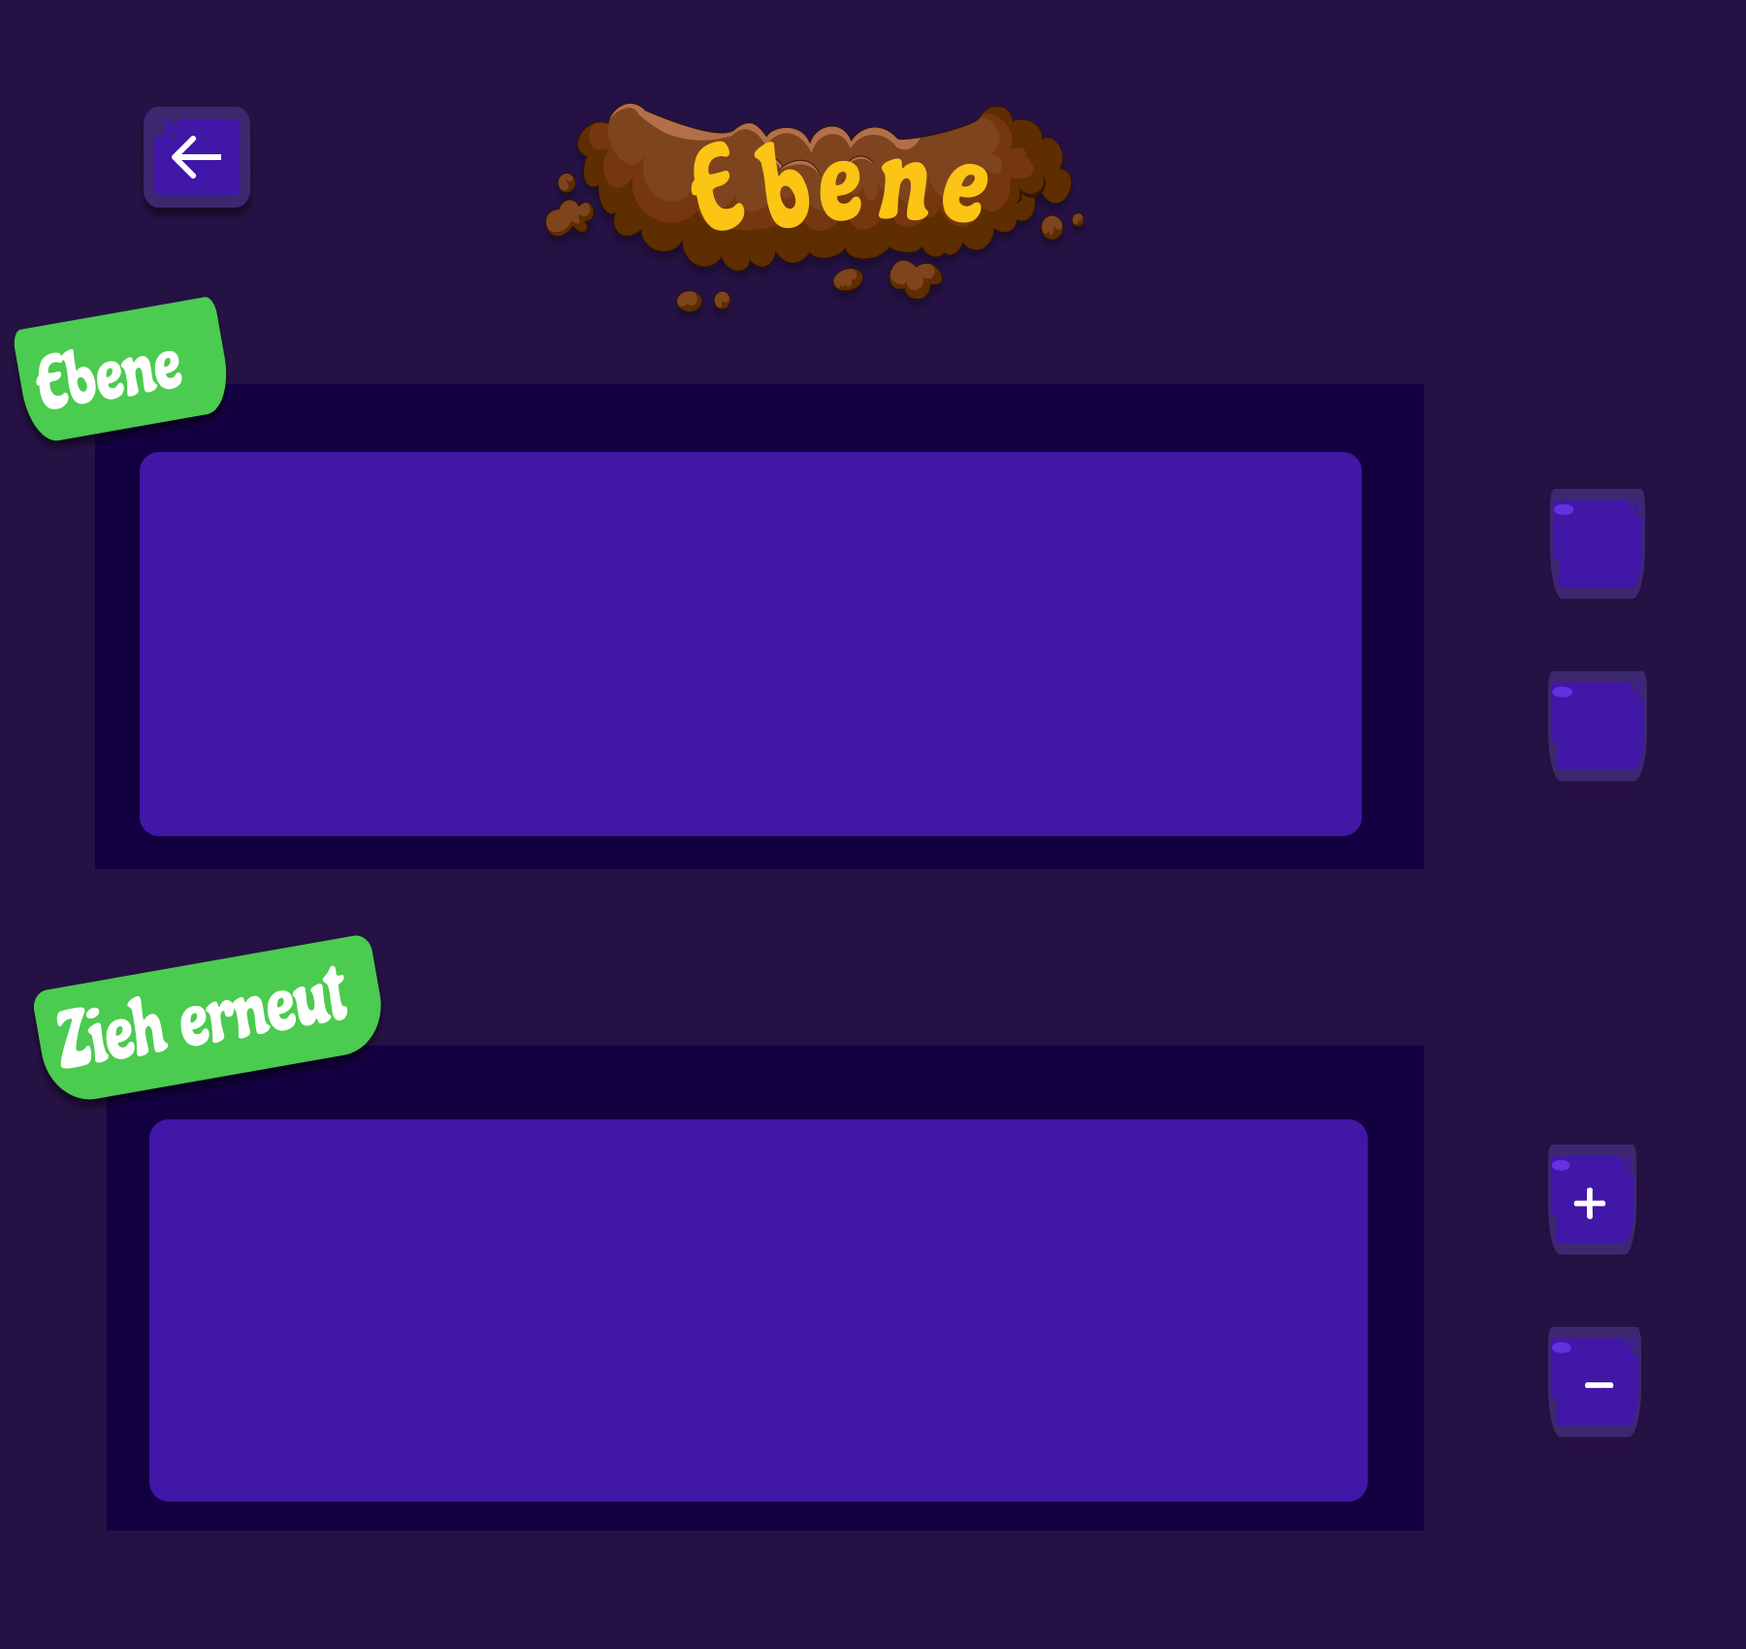
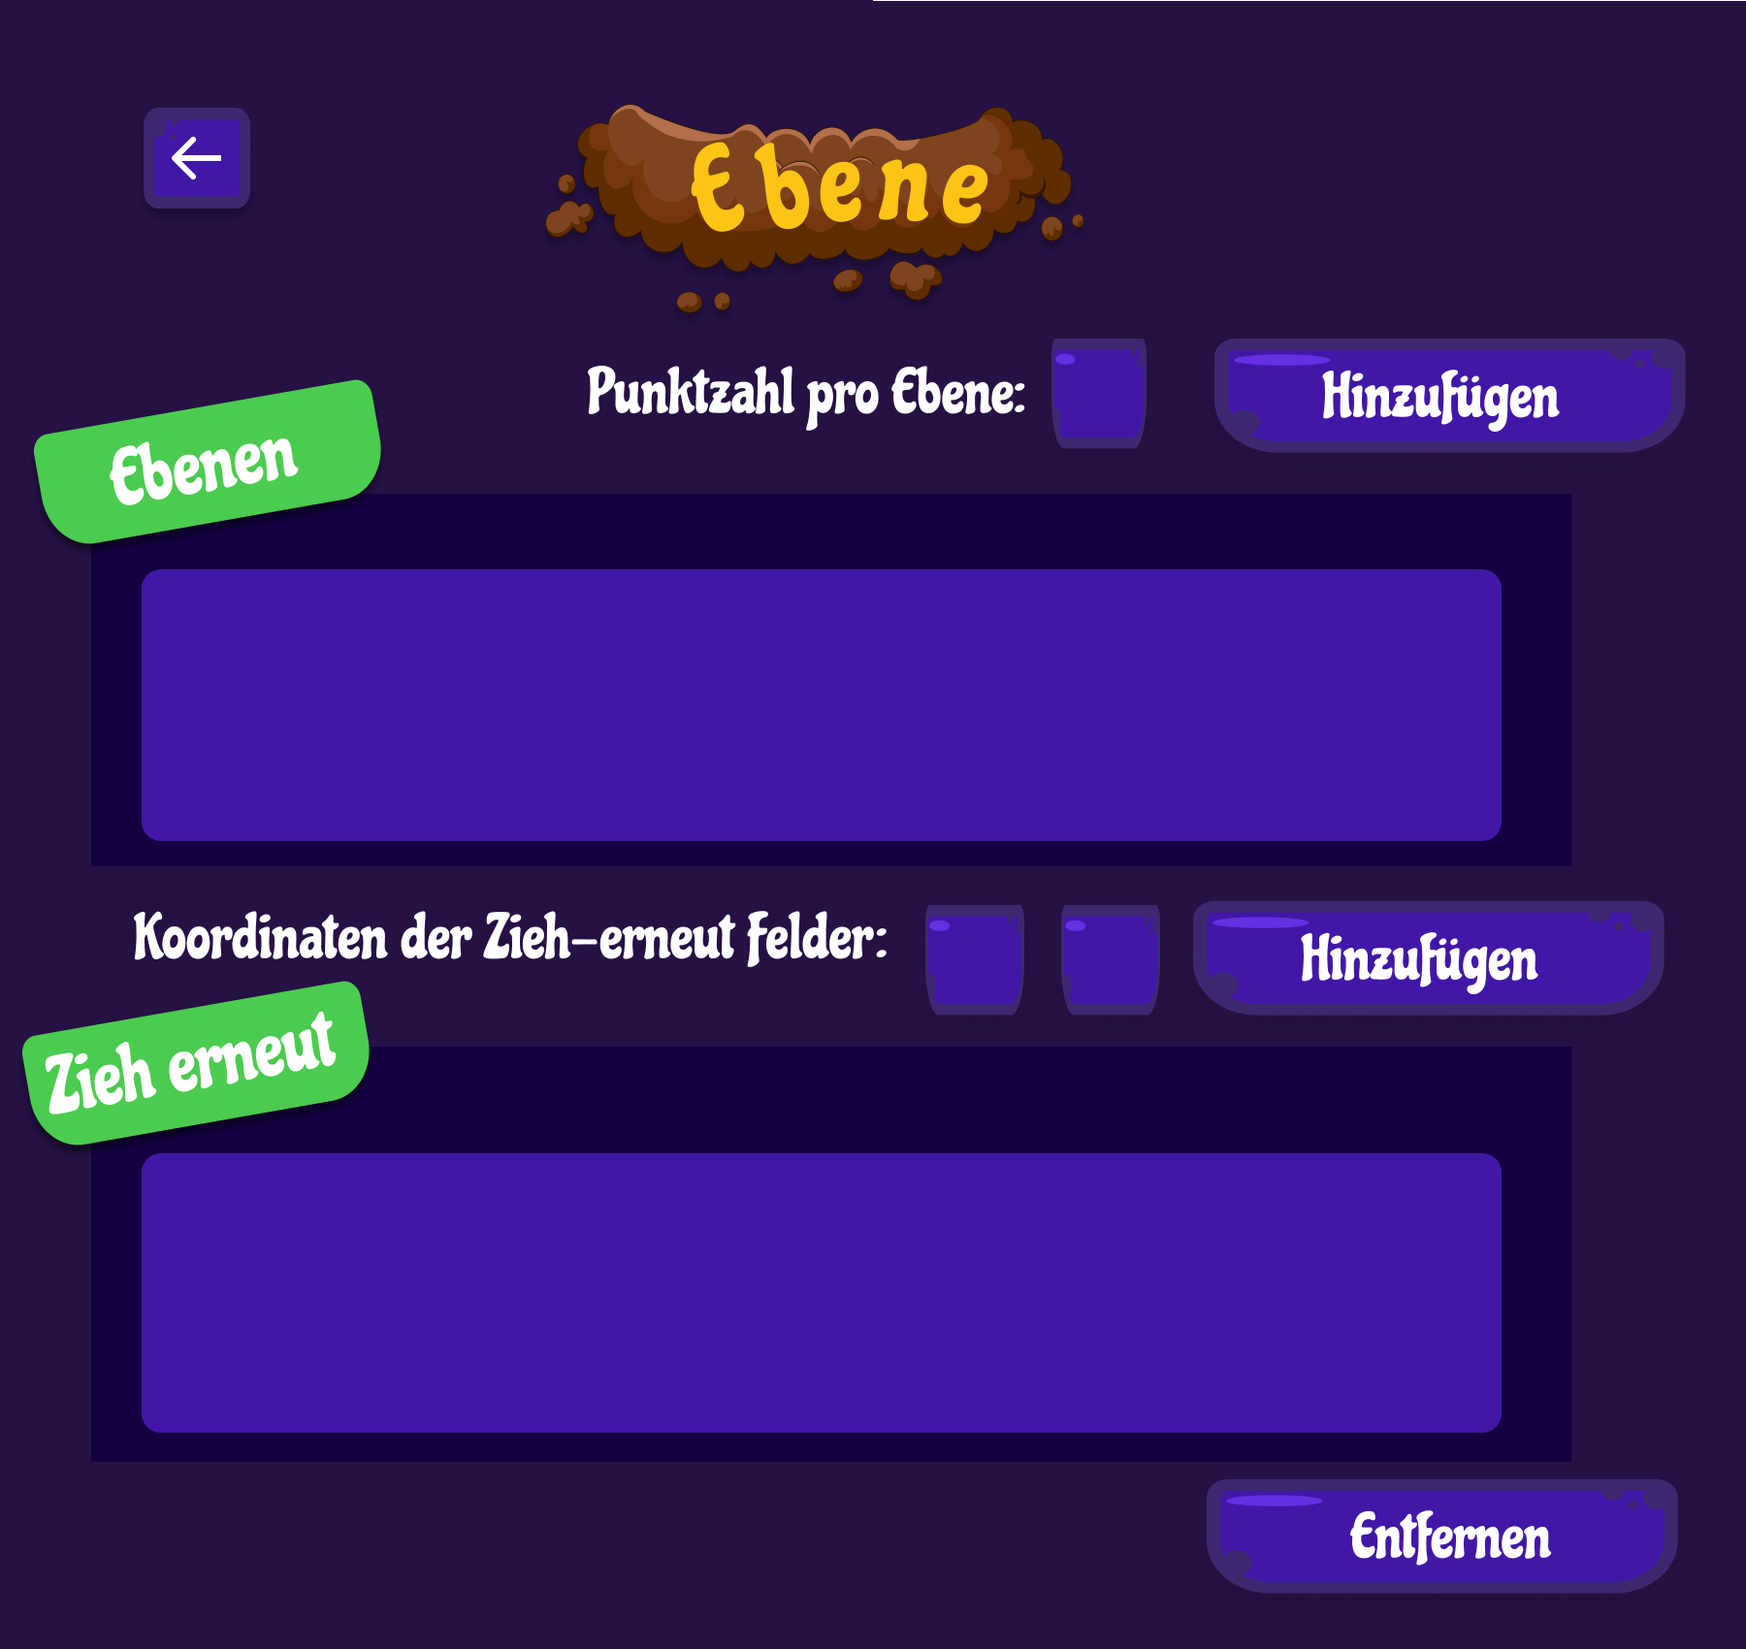
Letzte Bearbeitungen Ausrichter

Changed region(s): [[0.0, 0.53, 0.9644, 0.9665], [0.0, 0.1559, 0.9644, 0.6235]]

diff --git a/pc/src/main/java/de/thundergames/gameplay/ausrichter/ui/TournamentEditor.java b/pc/src/main/java/de/thundergames/gameplay/ausrichter/ui/TournamentEditor.java
@@ -112,6 +112,8 @@ public class TournamentEditor implements Initializable {
       var selectedItem = gameTable.getSelectionModel().getSelectedItem();
       tournament.getGames().remove(selectedItem);
       updateTable();
+    } else {
+      Dialog.show("Du musst ein Spiel auswählen!", "Achtung!", Dialog.DialogType.WARNING);
     }
   }
 
@@ -125,7 +127,7 @@ public class TournamentEditor implements Initializable {
       //new AddPlayer(selectedItem).start(primaryStage, "TurnierModus");
       new PlayerManagement(selectedItem).start(primaryStage, "Turniermodus");
     } else {
-      Dialog.show("Du musst ein Spiel auswählen!", "Achtung!", Dialog.DialogType.ERROR);
+      Dialog.show("Du musst ein Spiel auswählen!", "Achtung!", Dialog.DialogType.WARNING);
     }
   }
 
@@ -133,7 +135,7 @@ public class TournamentEditor implements Initializable {
   void onBreakGame(ActionEvent event) {
     var selectedItem = gameTable.getSelectionModel().getSelectedItem();
     if (selectedItem == null) {
-      Dialog.show("Du musst ein Spiel auswählen!", "Achtung!", Dialog.DialogType.ERROR);
+      Dialog.show("Du musst ein Spiel auswählen!", "Achtung!", Dialog.DialogType.WARNING);
     } else {
       if (MoleGames.getMoleGames()
               .getGameHandler()
@@ -147,10 +149,10 @@ public class TournamentEditor implements Initializable {
                 .get(selectedItem.getGameID())
                 .pauseGame();
         updateTable();
-        Dialog.show("Spiel wurde erfolgreich pausiert!", "Erfolg!", Dialog.DialogType.INFO);
+        Dialog.show("Das gewählte Spiel wurde erfolgreich pausiert!", "Erfolg!", Dialog.DialogType.INFO);
         gameTable.getSelectionModel().clearSelection();
       } else {
-        Dialog.show("Das Spiel ist nicht im Started GameState!", "Spiel Gamestate!", Dialog.DialogType.ERROR);
+        Dialog.show("Das gewählte Spiel ist vorbei oder wurde noch nicht gestartet!", "Achtung!", Dialog.DialogType.WARNING);
       }
     }
   }
@@ -159,7 +161,7 @@ public class TournamentEditor implements Initializable {
   void onContinueGame(ActionEvent event) {
     var selectedItem = gameTable.getSelectionModel().getSelectedItem();
     if (selectedItem == null) {
-      Dialog.show("Du musst ein Spiel auswählen!", "Achtung!", Dialog.DialogType.ERROR);
+      Dialog.show("Du musst ein Spiel auswählen!", "Achtung!", Dialog.DialogType.WARNING);
     } else {
       if (MoleGames.getMoleGames()
               .getGameHandler()
@@ -176,7 +178,7 @@ public class TournamentEditor implements Initializable {
         updateTable();
         Dialog.show("Das gewählte Spiel geht weiter!", "Erfolg!", Dialog.DialogType.INFO);
       } else {
-        Dialog.show("Das gewählte Spiel ist nicht pausiert!", "Achtung!", Dialog.DialogType.ERROR);
+        Dialog.show("Das gewählte Spiel ist nicht pausiert!", "Achtung!", Dialog.DialogType.WARNING);
       }
     }
   }
@@ -185,7 +187,7 @@ public class TournamentEditor implements Initializable {
   void onEndGame(ActionEvent event) {
     var selectedItem = gameTable.getSelectionModel().getSelectedItem();
     if (selectedItem == null) {
-      Dialog.show("Du musst ein Spiel auswählen!", "Achtung!", Dialog.DialogType.ERROR);
+      Dialog.show("Du musst ein Spiel auswählen!", "Achtung!", Dialog.DialogType.WARNING);
     } else {
       if (MoleGames.getMoleGames()
               .getGameHandler()
@@ -208,7 +210,7 @@ public class TournamentEditor implements Initializable {
         updateTable();
         Dialog.show("Das gewählte Spiel wurde erfolgreich beendet!", "Erfolg!", Dialog.DialogType.INFO);
       } else {
-        Dialog.show("Das gewählte Spiel vvvv?????????!", "Achtung!", Dialog.DialogType.ERROR);
+        Dialog.show("Das gewählte Spiel ist vorbei!", "Achtung!", Dialog.DialogType.WARNING);
       }
     }
   }
@@ -224,7 +226,7 @@ public class TournamentEditor implements Initializable {
       }
     }
     if (selectedItem == null) {
-      Dialog.show("Du musst ein Spiel auswählen!", "Achtung!", Dialog.DialogType.ERROR);
+      Dialog.show("Du musst ein Spiel auswählen!", "Achtung!", Dialog.DialogType.WARNING);
     } else {
       if (MoleGames.getMoleGames()
               .getGameHandler()
@@ -242,7 +244,7 @@ public class TournamentEditor implements Initializable {
         updateTable();
         Dialog.show("Das gewählte Spiel wurde erfolgreich gestartet!", "Erfolg!", Dialog.DialogType.INFO);
       } else {
-        Dialog.show("Das nccdneo!", "Achtung", Dialog.DialogType.ERROR);
+        Dialog.show("Status 'Open', dann musst du mindestens 2 Spieler hinzufügen!", "Achtung", Dialog.DialogType.WARNING);
       }
     }
   }

diff --git a/pc/src/main/java/de/thundergames/gameplay/ausrichter/ui/floor/HolesConfiguration.java b/pc/src/main/java/de/thundergames/gameplay/ausrichter/ui/floor/HolesConfiguration.java
@@ -50,6 +50,8 @@ public class HolesConfiguration implements Initializable {
   @FXML
   private Button add;
   @FXML
+  private Button addPoints;
+  @FXML
   private TableColumn<Floor, String> amountDrawAgain;
   @FXML
   private TableColumn<Floor, String> amountHoles;
@@ -67,6 +69,8 @@ public class HolesConfiguration implements Initializable {
   private TableColumn<Hole, String> xPosition;
   @FXML
   private TextField y;
+  @FXML
+  private TextField z;
   @FXML
   private TableColumn<Hole, String> yPosition;
   @FXML
@@ -92,18 +96,11 @@ public class HolesConfiguration implements Initializable {
   /**
    * @param event
    * @author Carina, Jana, Eva
-   * @use removes a new floor or field
    */
   @FXML
   void onAdd(@NotNull final ActionEvent event) {
     try {
       if (!"".equalsIgnoreCase(x.getText())
-        && x.getText() != null
-        && ("".equalsIgnoreCase(y.getText()) || y.getText() == null)) {
-        var floor = new Floor(Integer.parseInt(x.getText()));
-        CreateGame.getFloors().add(floor);
-        updateTable();
-      } else if (!"".equalsIgnoreCase(x.getText())
         && x.getText() != null
         && !"".equalsIgnoreCase(y.getText())
         && y.getText() != null
@@ -114,15 +111,32 @@ public class HolesConfiguration implements Initializable {
         updateHolesTable();
         updateTable();
       } else {
-        Dialog.show("Wähle eine Ebene aus!", "Ebeneauswahl!", Dialog.DialogType.WARNING);
+        Dialog.show("Wähle eine Ebene aus!", "Achtung!", Dialog.DialogType.WARNING);
       }
       x.setText(null);
       y.setText(null);
     } catch (NumberFormatException exe) {
-      Dialog.show("Du musst eine Zahl eingeben!", "Eingabe!", Dialog.DialogType.ERROR);
+      Dialog.show("Du musst die X und Y Koordinaten eingeben!", "Achtung!", Dialog.DialogType.WARNING);
     }
   }
-
+  /**
+   * @param event
+   * @author Eva, Jana
+   */
+  @FXML
+  void onAddPoints(@NotNull final ActionEvent event) {
+    try {
+      if (!"".equalsIgnoreCase(z.getText())
+        && z.getText() != null) {
+        var floor = new Floor(Integer.parseInt(z.getText()));
+        CreateGame.getFloors().add(floor);
+        updateTable();
+      }
+      z.setText(null);
+    } catch (NumberFormatException exe) {
+      Dialog.show("Du musst eine Zahl eingeben!", "Achtung!", Dialog.DialogType.WARNING);
+    }
+  }
   @FXML
   void onBack(@NotNull final ActionEvent event) throws Exception {
     var primaryStage = (Stage) ((Node) event.getSource()).getScene().getWindow();
@@ -146,7 +160,7 @@ public class HolesConfiguration implements Initializable {
       updateTable();
       floorTable.getSelectionModel().select(null);
     } else {
-      Dialog.show("Du musst eine Spalte auswaehlen!", "Auswählen!", Dialog.DialogType.ERROR);
+      Dialog.show("Du musst eine Zeile auswählen!", "Achtung!", Dialog.DialogType.WARNING);
     }
   }
 
@@ -185,6 +199,8 @@ public class HolesConfiguration implements Initializable {
   void initialize() {
     assert add != null
       : "fx:id=\"add\" was not injected: check your FXML file 'HolesConfiguration.fxml'.";
+    assert addPoints != null
+      : "fx:id=\"addPoints\" was not injected: check your FXML file 'HolesConfiguration.fxml'.";
     assert amountDrawAgain != null
       : "fx:id=\"amountDrawAgain\" was not injected: check your FXML file 'HolesConfiguration.fxml'.";
     assert amountHoles != null
@@ -207,6 +223,8 @@ public class HolesConfiguration implements Initializable {
       : "fx:id=\"xPosition\" was not injected: check your FXML file 'HolesConfiguration.fxml'.";
     assert y != null
       : "fx:id=\"y\" was not injected: check your FXML file 'HolesConfiguration.fxml'.";
+    assert z != null
+      : "fx:id=\"z\" was not injected: check your FXML file 'HolesConfiguration.fxml'.";
     assert points != null
       : "fx:id=\"points\" was not injected: check your FXML file 'HolesConfiguration.fxml'.";
     assert yPosition != null

diff --git a/pc/src/main/java/de/thundergames/gameplay/ausrichter/ui/floor/DrawAgainConfiguration.java b/pc/src/main/java/de/thundergames/gameplay/ausrichter/ui/floor/DrawAgainConfiguration.java
@@ -44,6 +44,8 @@ public class DrawAgainConfiguration implements Initializable {
   @FXML
   private Button add;
   @FXML
+  private Button addPoints;
+  @FXML
   private TableColumn<Floor, String> amountDrawAgain;
   @FXML
   private TableColumn<Floor, String> amountHoles;
@@ -65,6 +67,8 @@ public class DrawAgainConfiguration implements Initializable {
   private TableColumn<DrawAgain, String> xPosition;
   @FXML
   private TextField y;
+  @FXML
+  private TextField z;
   @FXML
   private TableColumn<DrawAgain, String> yPosition;
   @FXML
@@ -90,12 +94,6 @@ public class DrawAgainConfiguration implements Initializable {
     try {
       if (!"".equalsIgnoreCase(x.getText())
         && x.getText() != null
-        && ("".equalsIgnoreCase(y.getText()) || y.getText() == null)) {
-        var floor = new Floor(Integer.parseInt(x.getText()));
-        CreateGame.getFloors().add(floor);
-        updateTable();
-      } else if (!"".equalsIgnoreCase(x.getText())
-        && x.getText() != null
         && !"".equalsIgnoreCase(y.getText())
         && y.getText() != null
         && floorTable.getSelectionModel().getSelectedItem() != null) {
@@ -106,12 +104,31 @@ public class DrawAgainConfiguration implements Initializable {
         updateDragAgainTable();
         updateTable();
       } else {
-        Dialog.show("Waehle eine Ebene aus!", "Settings", Dialog.DialogType.ERROR);
+        Dialog.show("Du musst eine Ebene auswählen!", "Achtung!", Dialog.DialogType.WARNING);
       }
       x.setText(null);
       y.setText(null);
     } catch (NumberFormatException exe) {
-      Dialog.show("Du musst eine Zahl eingeben!", "Settings", Dialog.DialogType.ERROR);
+      Dialog.show("Du musst die X und Y Koordinaten eingeben!", "Achtung!", Dialog.DialogType.WARNING);
+    }
+  }
+
+  /**
+   * @author Eva,Jana
+   */
+  @FXML
+  void onAddPoints(@NotNull final ActionEvent event) {
+    try {
+      if (
+        !"".equalsIgnoreCase(z.getText())
+          && z.getText() != null) {
+        var floor = new Floor(Integer.parseInt(z.getText()));
+        CreateGame.getFloors().add(floor);
+        updateTable();
+      }
+      z.setText(null);
+    } catch (NumberFormatException exe) {
+      Dialog.show("Du musst eine Zahl eingeben!", "Achtung!", Dialog.DialogType.WARNING);
     }
   }
 
@@ -133,9 +150,10 @@ public class DrawAgainConfiguration implements Initializable {
       updateTable();
       floorTable.getSelectionModel().select(null);
     } else {
-      Dialog.show("Du musst eine Spalte auswaehlen!", "Settings", Dialog.DialogType.ERROR);
+      Dialog.show("Du musst eine Zeile auswählen!", "Achtung!", Dialog.DialogType.WARNING);
     }
   }
+
 
   public void updateTable() {
     floorTable.getItems().clear();
@@ -153,6 +171,8 @@ public class DrawAgainConfiguration implements Initializable {
   void initialize() {
     assert add != null
       : "fx:id=\"add\" was not injected: check your FXML file 'DrawAgainConfiguration.fxml'.";
+    assert addPoints != null
+      : "fx:id=\"addPoints\" was not injected: check your FXML file 'DrawAgainConfiguration.fxml'.";
     assert amountDrawAgain != null
       : "fx:id=\"amountDrawAgain\" was not injected: check your FXML file 'DrawAgainConfiguration.fxml'.";
     assert amountHoles != null
@@ -177,6 +197,8 @@ public class DrawAgainConfiguration implements Initializable {
       : "fx:id=\"xPosition\" was not injected: check your FXML file 'DrawAgainConfiguration.fxml'.";
     assert y != null
       : "fx:id=\"y\" was not injected: check your FXML file 'DrawAgainConfiguration.fxml'.";
+    assert z != null
+      : "fx:id=\"z\" was not injected: check your FXML file 'DrawAgainConfiguration.fxml'.";
     assert yPosition != null
       : "fx:id=\"yPosition\" was not injected: check your FXML file 'DrawAgainConfiguration.fxml'.";
     // create a listener on selecting a property for the floorTable

diff --git a/pc/src/main/java/de/thundergames/gameplay/ausrichter/ui/AddGames.java b/pc/src/main/java/de/thundergames/gameplay/ausrichter/ui/AddGames.java
@@ -110,17 +110,27 @@ public class AddGames implements Initializable{
   void onAddGame(ActionEvent event) {
     var selectedItem = gameTable.getSelectionModel().getSelectedItem();
     if (selectedItem == null) {
-      Dialog.show("Du musst ein Spiel auswählen!", "Achtung!",  Dialog.DialogType.INFO);
+      Dialog.show("Du musst ein Spiel auswählen!", "Achtung!",  Dialog.DialogType.WARNING);
     } else {
       if (MoleGames.getMoleGames()
-              .getGameHandler()
-              .getIDGames()
-              .get(selectedItem.getGameID())
-              .getCurrentGameState()
-              == GameStates.NOT_STARTED) {
+        .getGameHandler()
+        .getIDGames()
+        .get(selectedItem.getGameID())
+        .getCurrentGameState()
+        == GameStates.NOT_STARTED) {
         tournament.addGame(selectedItem);
-        //MoleGames.getMoleGames().getGameHandler().getGames().add(selectedItem);
+        Dialog.show("Das Spiel wurde hinzugefügt!", "Erfolg!",  Dialog.DialogType.WARNING);
         updateTable();
+      } else {
+        if (MoleGames.getMoleGames()
+          .getGameHandler()
+          .getIDGames()
+          .get(selectedItem.getGameID())
+          .getCurrentGameState()
+          == GameStates.OVER) {
+          Dialog.show("Das Spiel ist bereits vorbei", "Achtung!",  Dialog.DialogType.WARNING);
+          updateTable();
+        }
       }
     }
   }

diff --git a/pc/src/main/java/de/thundergames/gameplay/ausrichter/ui/PlayerManagement.java b/pc/src/main/java/de/thundergames/gameplay/ausrichter/ui/PlayerManagement.java
@@ -90,7 +90,7 @@ public class PlayerManagement implements Initializable {
     var selectedPlayer = availablePlayersTable.getSelectionModel().getSelectedItem();
     if (selectedPlayer != null) {
       if (selectedPlayer.getPlayer().getGame() != null) {
-        Dialog.show("Der Spieler ist bereits in einem Spiel!", "Achtung!", Dialog.DialogType.WARNING);
+        Dialog.show("Du musst einen Spieler wählen!", "Achtung!", Dialog.DialogType.WARNING);
         return;
       }
       if (game.getCurrentGameState() == GameStates.OVER) {
@@ -147,7 +147,6 @@ public class PlayerManagement implements Initializable {
       }
       if (selectedPlayer.getGame().getCurrentGameState() != GameStates.OVER) {
         MoleGames.getMoleGames().getServer().getPacketHandler().handlePlayerLeavePacket((ServerThread) selectedPlayer.getServerClient());
-        Dialog.show("Der Spieler wurde aus dem Spiel entfernt!", "Erfolg!", Dialog.DialogType.INFO);
       }
       updateTable();
     } else {

diff --git a/pc/src/main/java/de/thundergames/gameplay/ausrichter/ui/AddPlayer.java b/pc/src/main/java/de/thundergames/gameplay/ausrichter/ui/AddPlayer.java
@@ -122,7 +122,7 @@ public class AddPlayer implements Initializable {
           MoleGames.getMoleGames().getServer().getPacketHandler().welcomeGamePacket(selectedPlayer);
           updateTable();
         } else {
-          Dialog.show("Das hinzufuegen des Spielers hat nicht geklappt.", "Fehler!", Dialog.DialogType.ERROR);
+          Dialog.show("Das hinzufügen des Spielers hat nicht geklappt.", "Fehler!", Dialog.DialogType.ERROR);
         }
       } else {
         Dialog.show("Das Spiel ist bereits voll!", "Fehler!", Dialog.DialogType.ERROR);

diff --git a/pc/src/main/java/de/thundergames/gameplay/ausrichter/ui/Tournaments.java b/pc/src/main/java/de/thundergames/gameplay/ausrichter/ui/Tournaments.java
@@ -90,7 +90,7 @@ public class Tournaments extends Application implements Initializable {
       tournamentTable.getSelectionModel().clearSelection();
       new TournamentEditor(tournament).start(primaryStage);
     } else {
-      Dialog.show("Du musst ein Turnier auswählen!", "Achtung!", Dialog.DialogType.ERROR);
+      Dialog.show("Du musst ein Turnier auswählen!", "Achtung!", Dialog.DialogType.WARNING);
     }
   }
 
